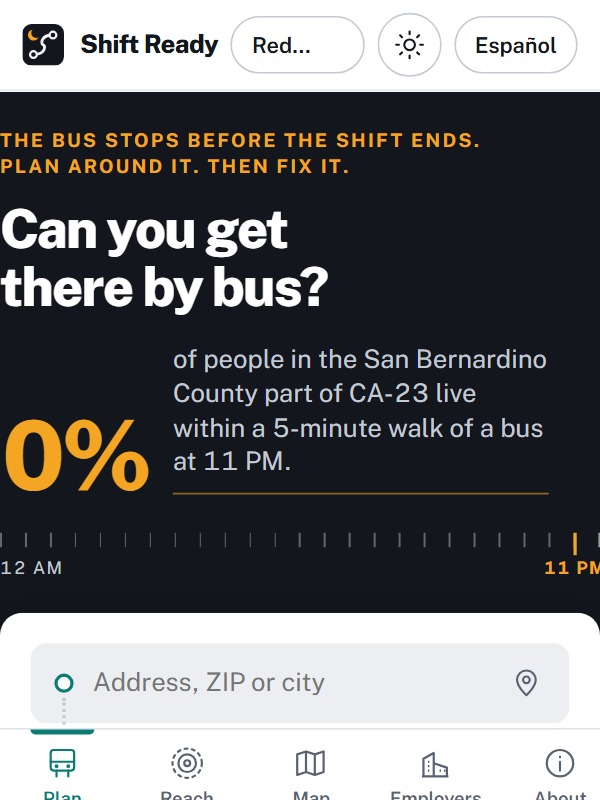
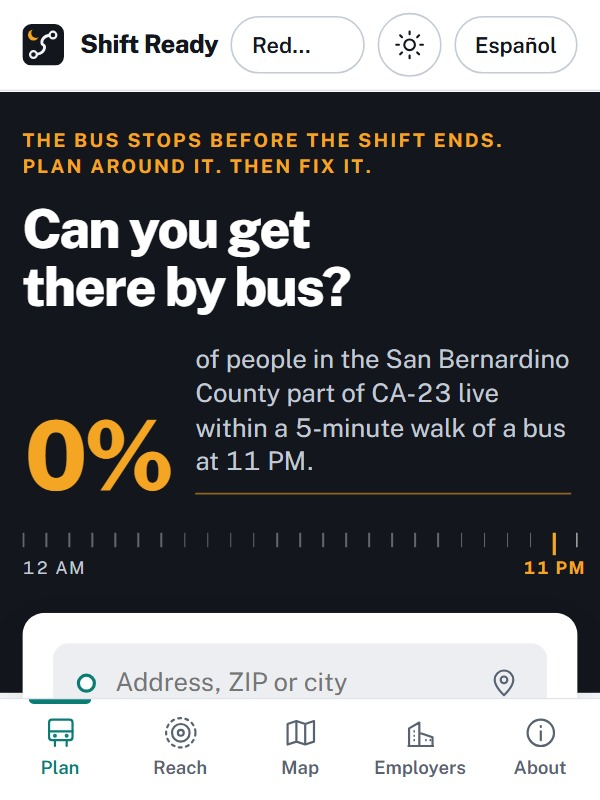
Restore page side padding (safe-area rule had zeroed it), precise 11 PM wording, retaken cover

diff --git a/shiftready/web/css/style.css b/shiftready/web/css/style.css
@@ -748,7 +748,8 @@ html { -webkit-tap-highlight-color: transparent; }
 button, a, select, summary, label, [role="button"] { touch-action: manipulation; }
 header.top { padding-top: calc(8px + env(safe-area-inset-top)); padding-left: max(14px, env(safe-area-inset-left)); padding-right: max(14px, env(safe-area-inset-right)); }
 .tabbar { padding-left: env(safe-area-inset-left); padding-right: env(safe-area-inset-right); }
-main { padding-left: max(0px, env(safe-area-inset-left)); padding-right: max(0px, env(safe-area-inset-right)); }
+main { padding-left: max(20px, env(safe-area-inset-left)); padding-right: max(20px, env(safe-area-inset-right)); }
+@media (max-width: 520px) { main { padding-left: max(14px, env(safe-area-inset-left)); padding-right: max(14px, env(safe-area-inset-right)); } }
 @supports (height: 100dvh) {
   .tab-map #map { height: 60dvh; }
   @media (max-width: 899px) { .tab-map #map { height: 52dvh; } }

diff --git a/shiftready/web/sw.js b/shiftready/web/sw.js
@@ -1,7 +1,7 @@
 /* Offline support. The app shell is stored when the app is first opened; schedule and map data are stored as they are used,
  * so a trip that has been checked once can be checked again with no signal. Map tiles are never cached here.
  * Code (HTML, JS, CSS) is fetched fresh when online so updates show up at once. */
-const CACHE = "shiftready-v47";
+const CACHE = "shiftready-v48";
 const SHELL = ["./", "index.html", "offline.html", "css/style.css", "vendor/leaflet.css", "vendor/leaflet.js", "vendor/fonts/public-sans.woff2",
   "js/theme.js", "js/i18n.js", "js/planner.js", "js/data.js", "js/impact.js", "js/geocode.js", "js/art.js", "js/ui-plan.js", "js/ui-map.js", "js/ui-reach.js", "js/ui-city.js", "js/app.js",
   "logo.svg", "manifest.webmanifest", "icons/maskable-192.png", "icons/maskable-512.png", "icons/apple-touch-icon.png", "data/regions.json"];

diff --git a/docs/APPLICATION_ANSWERS.md b/docs/APPLICATION_ANSWERS.md
@@ -17,9 +17,9 @@ Each answer is 380 to 400 words. Every fact is from the live app, the research n
 - **Cover photo:** docs/cover/cover_final_600x800.jpg
 
 ## 1. What does your app do?
-Shift Ready checks whether the bus will work for a shift and for the ride home. About 15 of every 100 US workers usually work evenings, nights or other hours outside the day (Bureau of Labor Statistics). In the San Bernardino County part of California's 23rd District live 729,052 people. About 20% of them live within a five minute walk of a bus at noon. At 10 PM it is 1.8% and at 11 PM it is none. The district has 6,383 warehouse and transport jobs. 34% of them are near a bus at noon and none at 11 PM.
+Shift Ready checks whether the bus will work for a shift and for the ride home. About 15 of every 100 US workers work evenings, nights or other hours outside the day (Bureau of Labor Statistics). In the San Bernardino County part of California's 23rd District live 729,052 people. About 20% of them live within a five minute walk of a bus at noon. At 10 PM it is 1.8%, and by 11 PM no neighborhood in the district has a bus within that walk. The district has 6,383 warehouse and transport jobs. 34% of them are near a bus at noon and none at 11 PM.
 
-A worker can take a job and find out on the first night that the last bus left an hour ago. Then the choices are a ride they pay for or driving tired. In my district 84% of the 201 people walking or biking who were killed from 2019 to 2023 died in the dark.
+A worker can take a job and find out on the first night that the last bus is gone. The choices are a ride they pay for or driving tired. In my district 84% of the 201 people walking or biking who were killed from 2019 to 2023 died in the dark.
 
 You enter where you live, where you work and when you must arrive. You can add when the shift ends. The app checks the real timetables of Omnitrans, Metrolink, Victor Valley, Morongo Basin and Mountain Transit. It answers Yes, Partly or No and shows the ride home and the last bus. If the answer is No it shows the closest times that work and the next bus if you miss one. A map in the result shows every leg of the trip. The Map tab shows hour by hour where service disappears.
 
